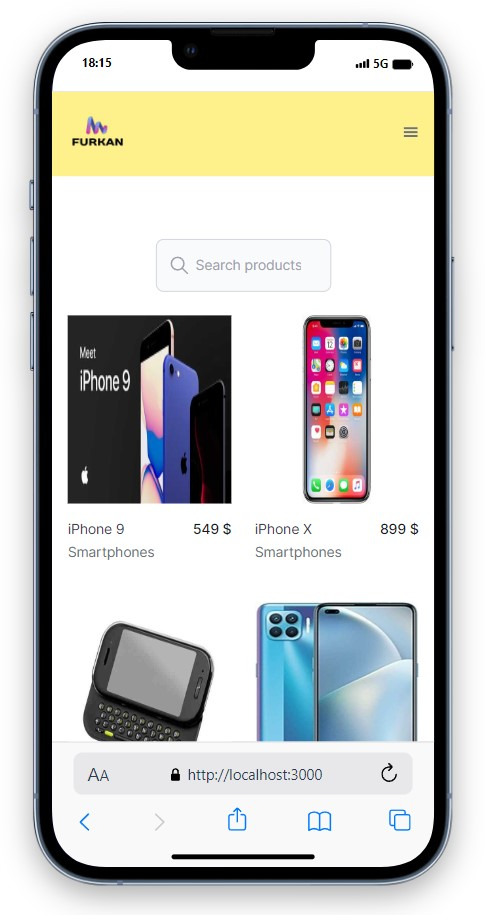
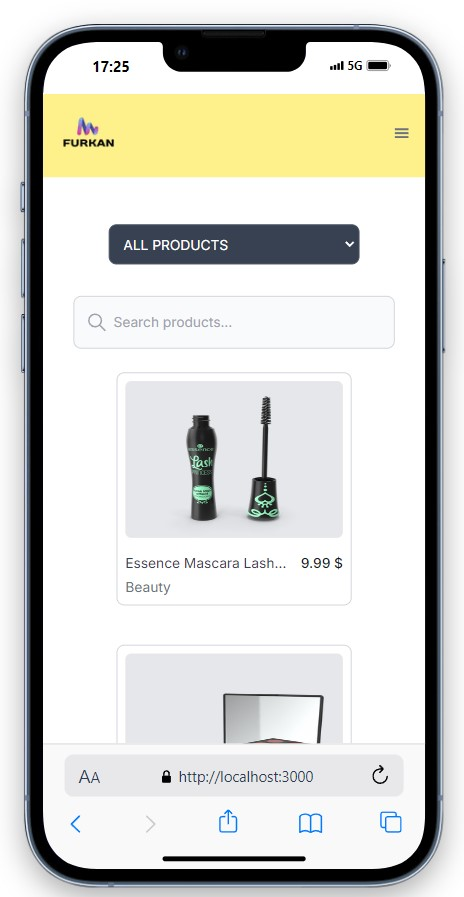
düzenleme

diff --git a/app/dashboard/products/page.jsx b/app/dashboard/products/page.jsx
@@ -26,15 +26,15 @@ const Products = () => {
   };
 
   const newProducts =
-    category.toLowerCase() === "all products"
-      ? products.filter(
-          (item) =>
-            item.title.toLowerCase().includes(search.toLowerCase())
+    category.toLocaleLowerCase() === "all products"
+      ? products.filter((item) =>
+          item.title.toLocaleLowerCase().includes(search.toLocaleLowerCase())
         )
       : products.filter(
           (item) =>
-            item.category.name.toLowerCase() === category &&
-            item.title.toLowerCase().includes(search.toLowerCase())
+            item.category?.name?.toLocaleLowerCase() ===
+              category.toLocaleLowerCase() &&
+            item.title.toLocaleLowerCase().includes(search.toLocaleLowerCase())
         );
 
   return (
@@ -53,7 +53,7 @@ const Products = () => {
       </div>
       <SearchInput search={search} setSearch={setSearch} />
 
-      <div className="mt-6 grid grid-cols-2 md:grid-cols-3 gap-x-6 gap-y-10 xl:gap-y-8">
+      <div className="mt-6 grid grid-cols-1 sm:grid-cols-2 md:grid-cols-3 gap-x-6 gap-y-10 xl:gap-y-8">
         {newProducts.map((item) => (
           <ProductCard key={item._id} item={item} />
         ))}

diff --git a/components/ProductCard.jsx b/components/ProductCard.jsx
@@ -3,14 +3,14 @@
 import { useRouter } from "next/navigation"
 
 const ProductCard = ({item}) => {
-    const {images, title, price, category, _id} = item
+    const {thumbnail, images, title, price, category, _id} = item
 
     const router = useRouter()
 
   return (
-    <div className="cursor-pointer border border-gray-300 rounded-lg p-2" onClick={() => router.push(`/dashboard/products/${_id}`)}>
+    <div className="cursor-pointer border border-gray-300 rounded-lg p-2 mx-auto sm:mx-0 max-w-60 w-full sm:max-w-96" onClick={() => router.push(`/dashboard/products/${_id}`)}>
         <div className="w-full rounded-md lg:h-72 bg-gray-200 hover:opacity-75">
-            <img src={images[0]} className="h-40 w-full lg:h-full lg:w-full rounded-md" />
+            <img src={thumbnail || images[0]} className="h-40 w-full lg:h-full lg:w-full rounded-md" />
         </div>
         <div className="mt-4 flex justify-between">
             <div className="flex-1">

diff --git a/hooks/useProductCalls.jsx b/hooks/useProductCalls.jsx
@@ -10,7 +10,7 @@ const useProductCalls = () => {
     const getProducts = async (search) => {
         dispatch(fetchStart());
         try {
-            const { data } = await axiosWithToken(`/products?limit=100&search=${search}`);
+            const { data } = await axiosWithToken(`/products?limit=200&search=${search}`);
             dispatch(getProductsSuccess(data))
         } catch (error) {
             dispatch(fetchFail());

diff --git a/components/SearchInput.jsx b/components/SearchInput.jsx
@@ -6,7 +6,7 @@ const SearchInput = ({ search, setSearch }) => {
 
   return (
     <div>
-      <div className="relative w-1/2 mx-auto">
+      <div className="relative w-11/12 sm:w-1/2 mx-auto">
         <div className="absolute left-0 pl-3 inset-y-0 flex items-center pointer-events-none">
           <IoIosSearch className="text-2xl text-gray-400" />
         </div>
